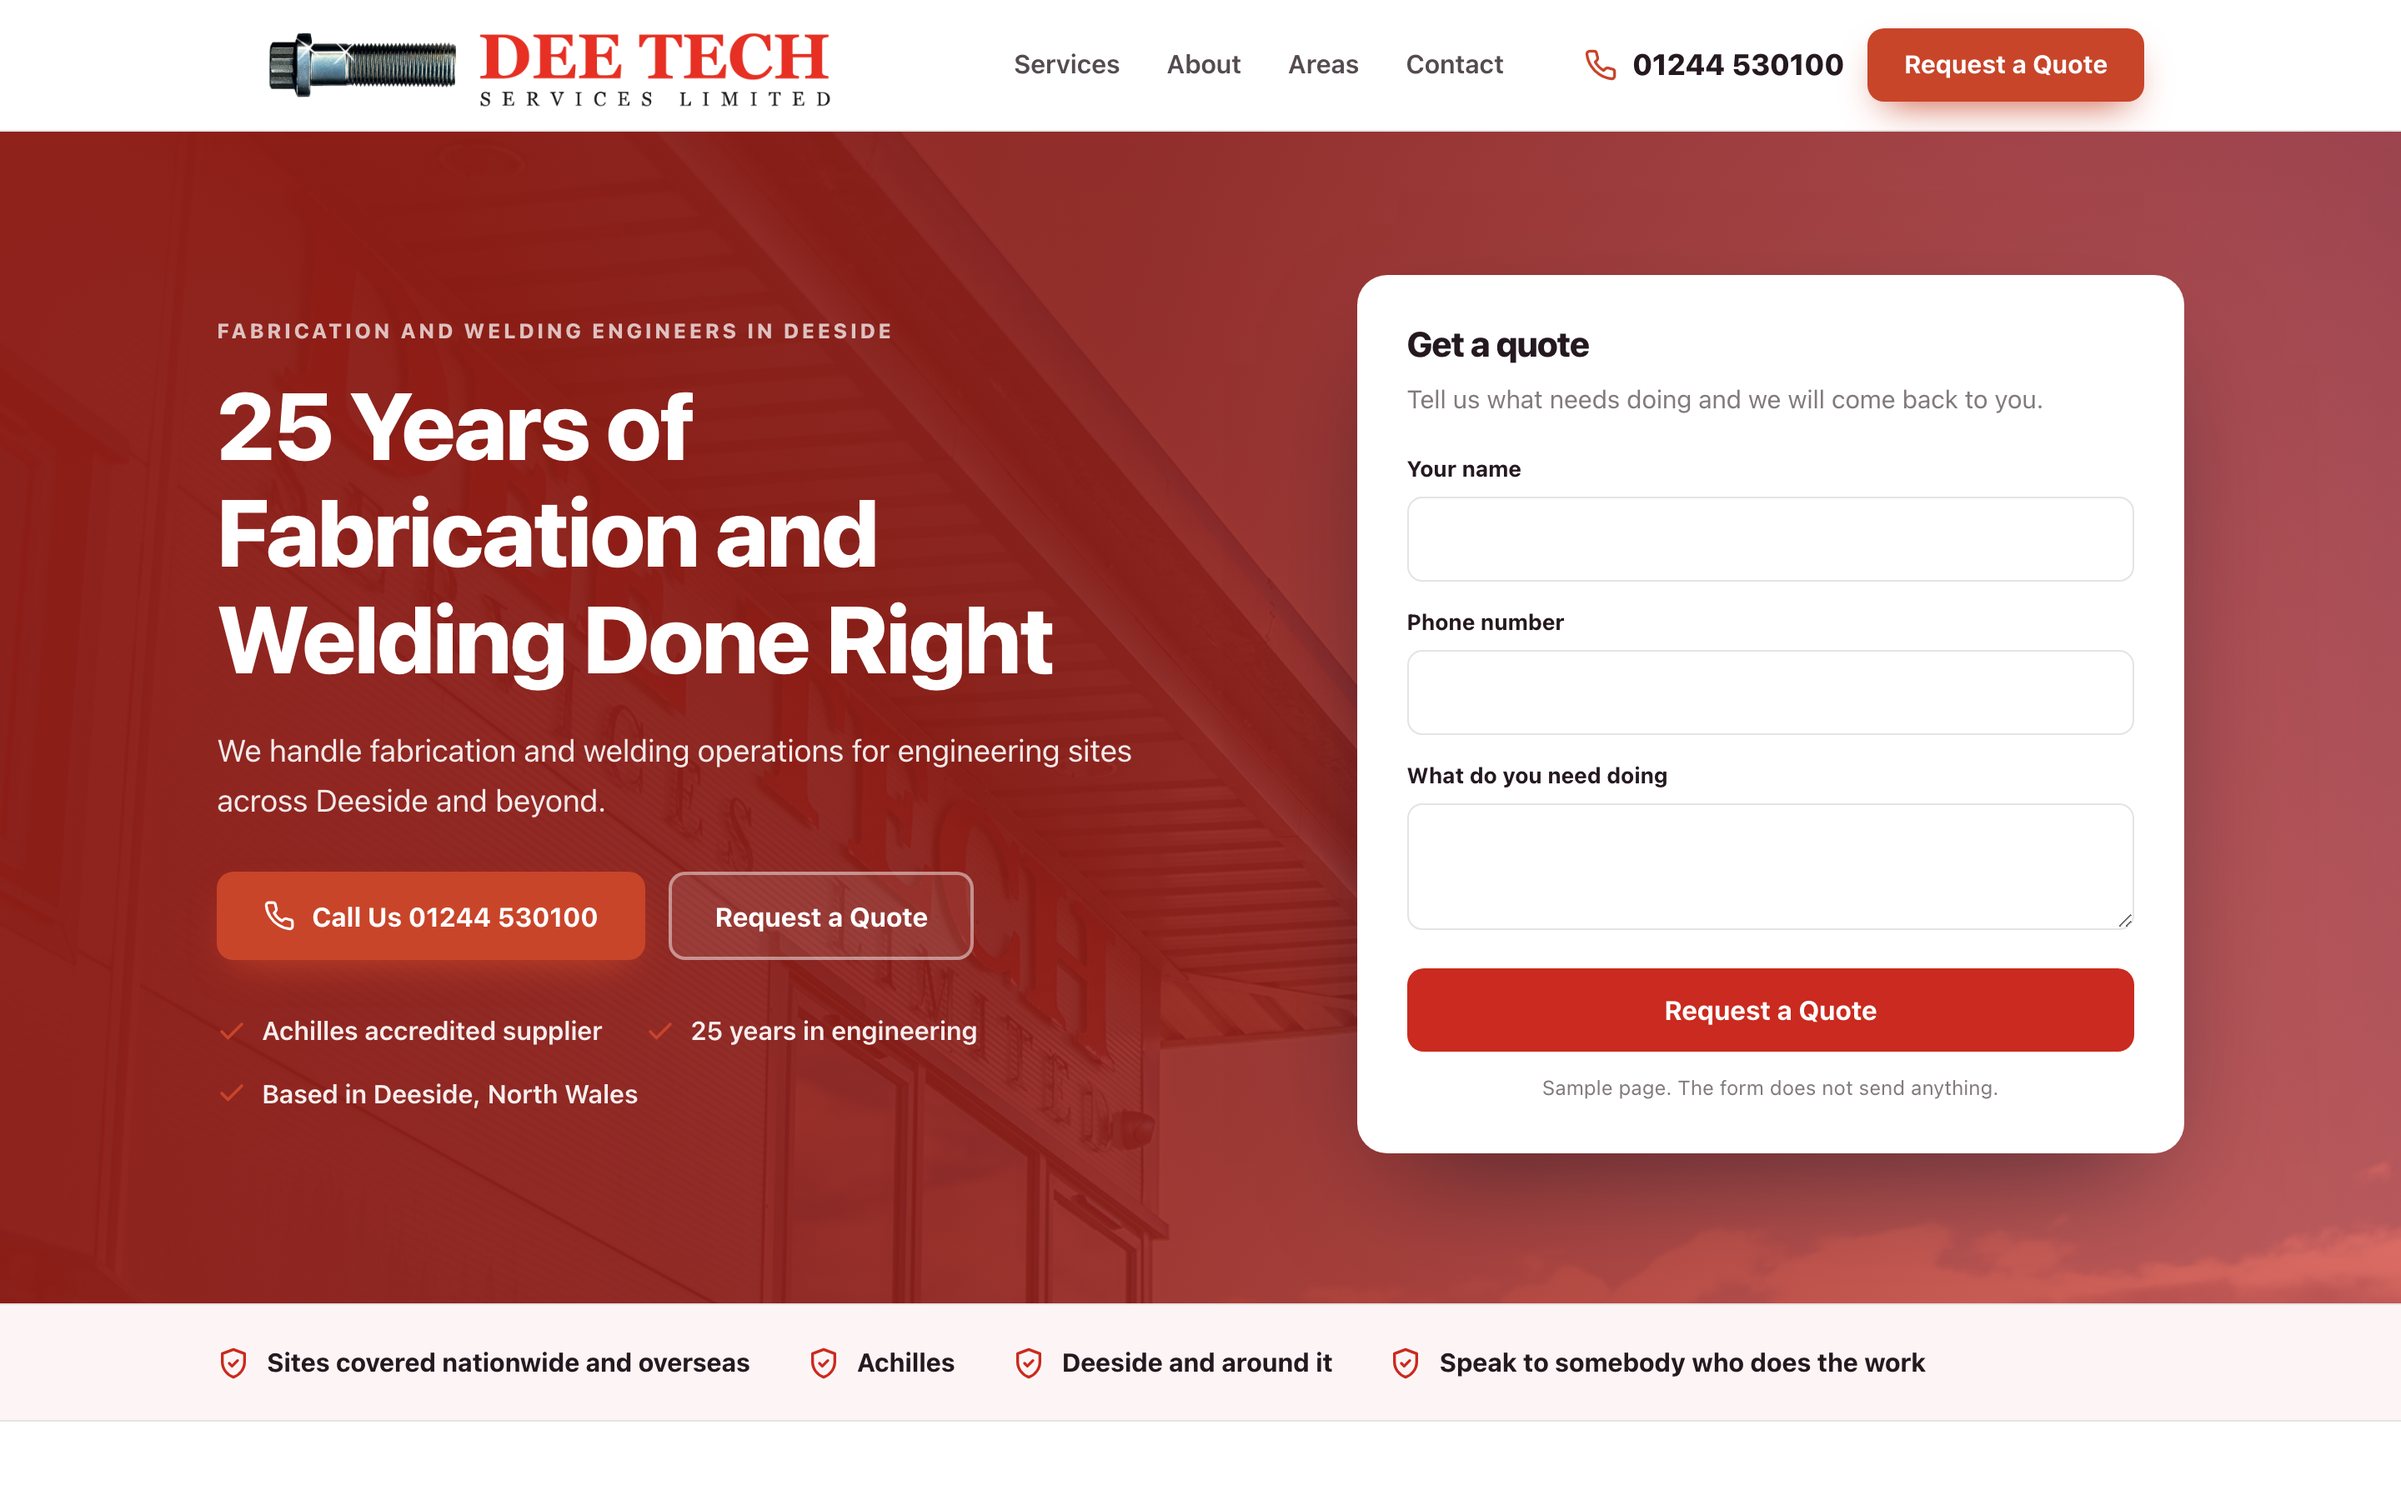
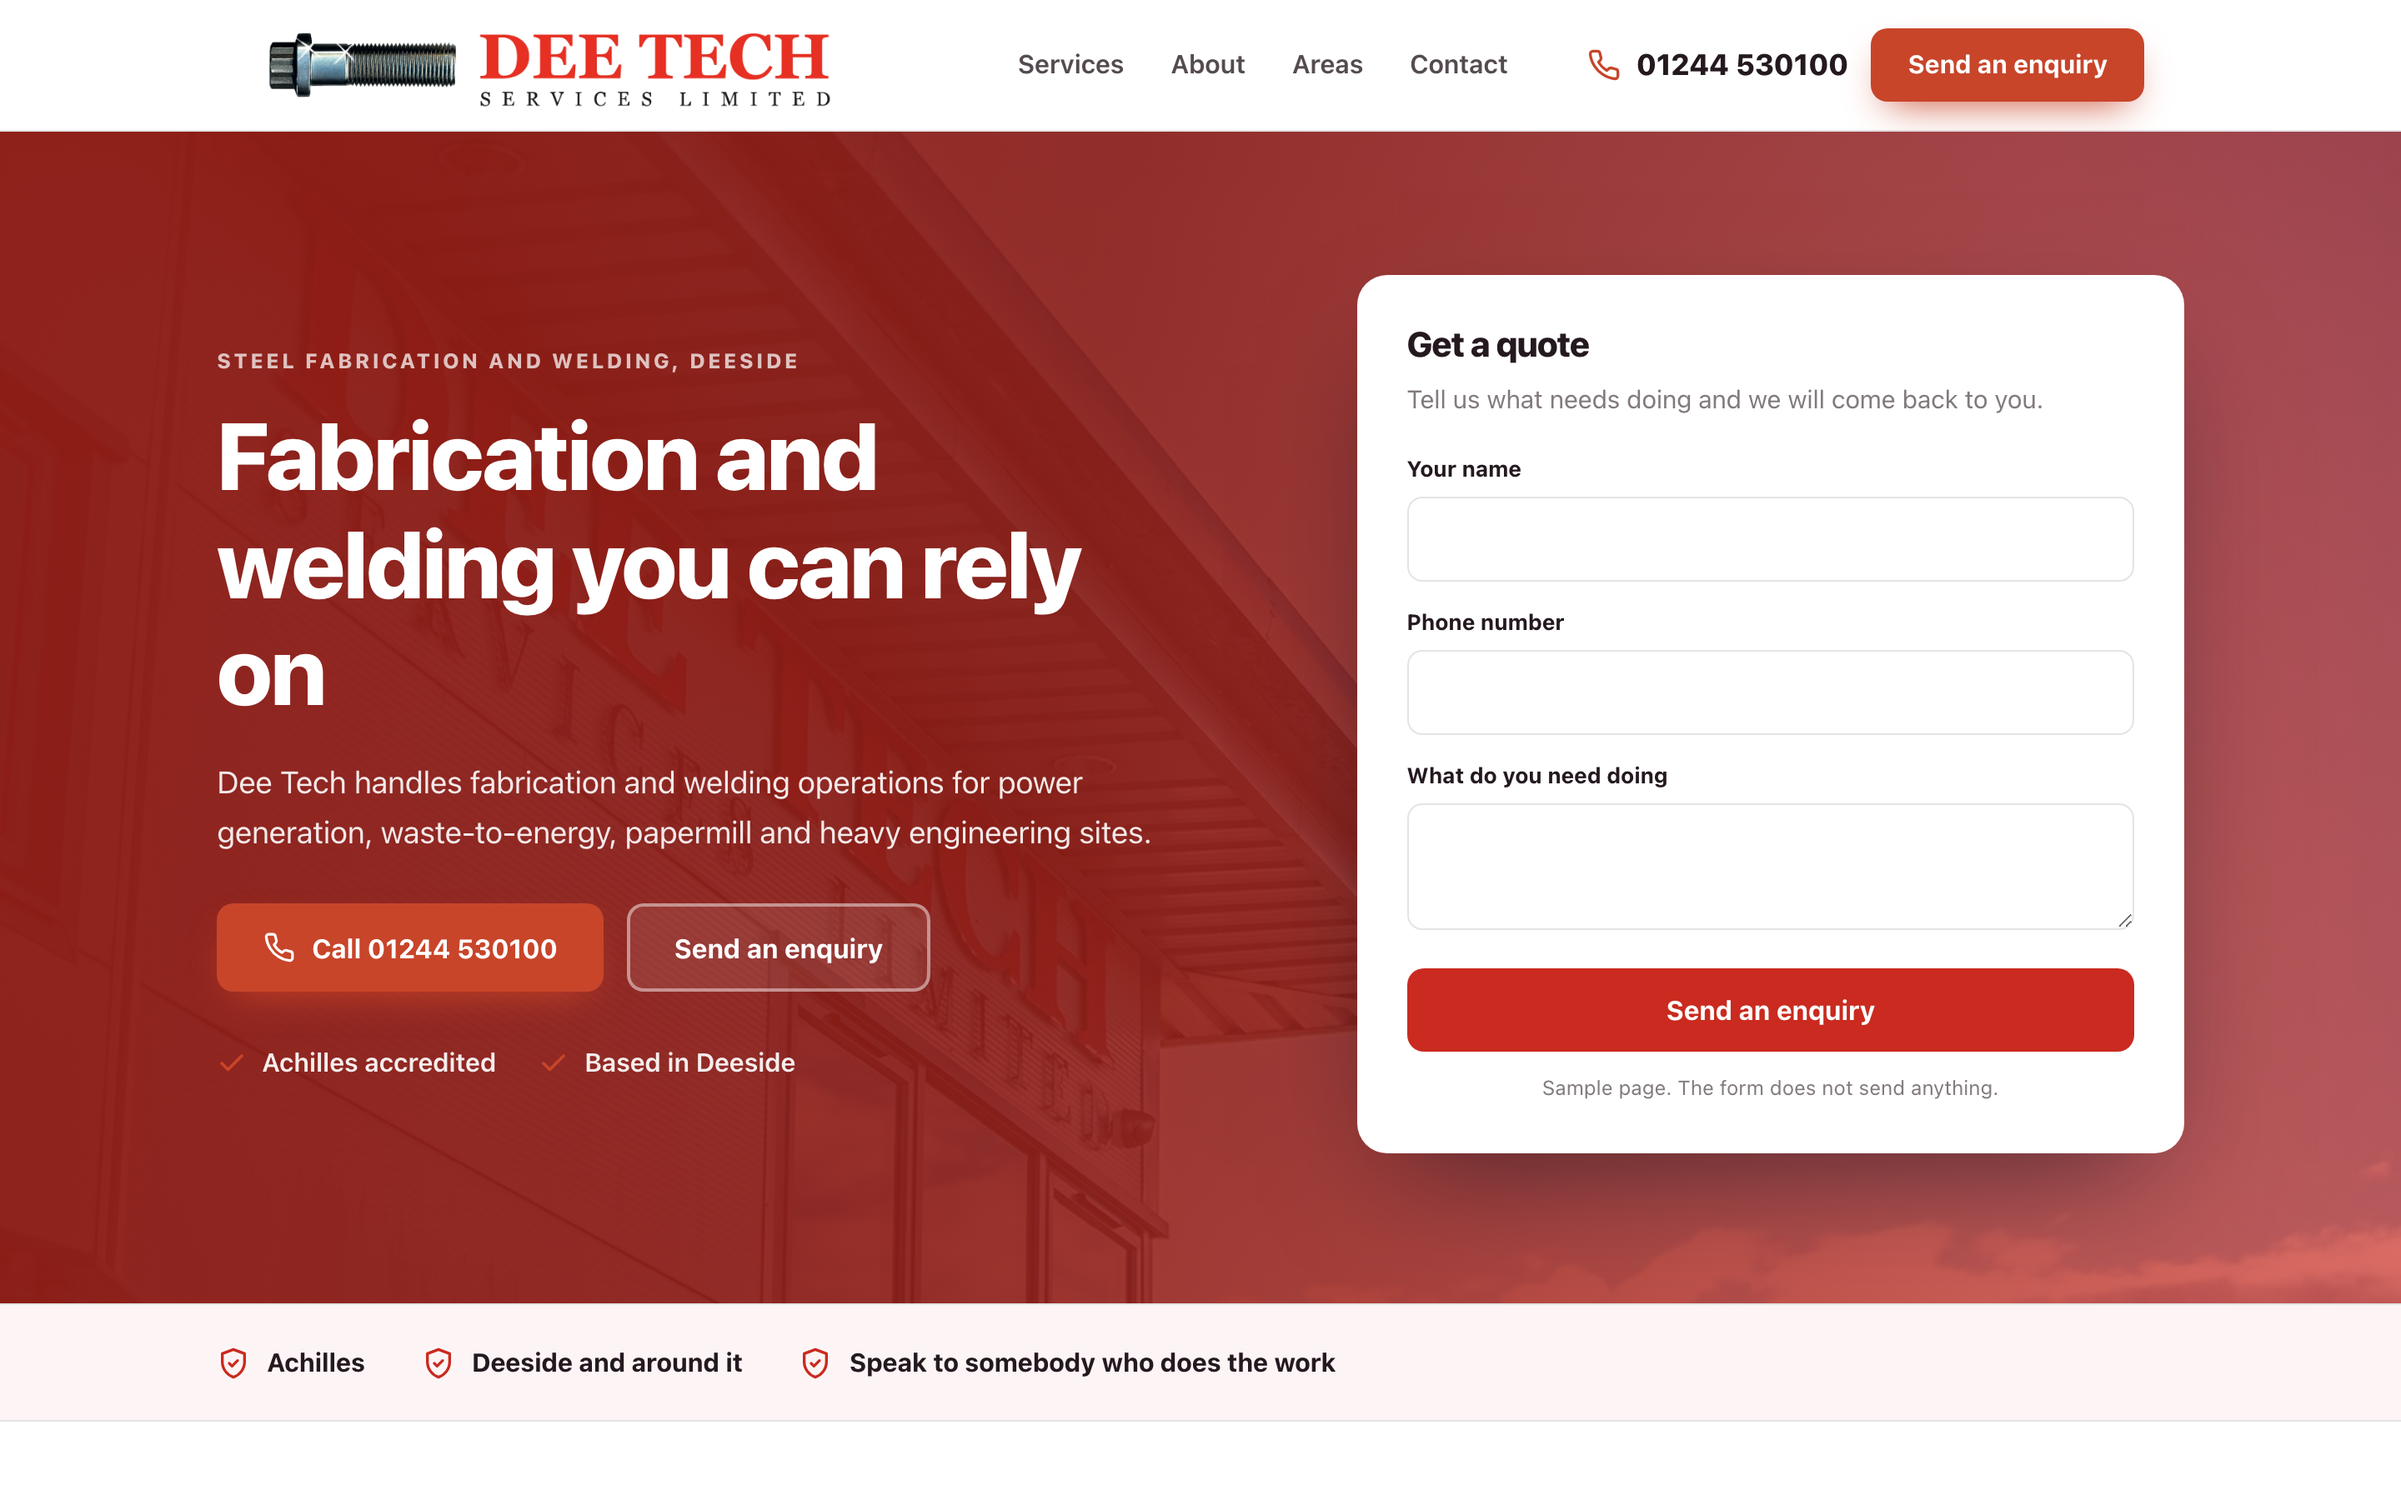
Sample homepage for Dee Tech

diff --git a/docs/d20d66e0ba/index.html b/docs/d20d66e0ba/index.html
@@ -4,14 +4,15 @@
 <meta charset="utf-8">
 <meta name="viewport" content="width=device-width, initial-scale=1">
 <meta name="robots" content="noindex,nofollow">
+<meta name="aso-build" content="">
 <title>Dee Tech sample homepage</title>
-<meta name="description" content="We handle fabrication and welding operations for engineering sites across Deeside and beyond.">
+<meta name="description" content="Dee Tech handles fabrication and welding operations for power generation, waste-to-energy, papermill and heavy engineering sites.">
 <link rel="canonical" href="https://markygff.github.io/aso-mockups/d20d66e0ba/">
 <meta property="og:type" content="website">
 <meta property="og:title" content="Dee Tech sample homepage">
-<meta property="og:description" content="We handle fabrication and welding operations for engineering sites across Deeside and beyond.">
+<meta property="og:description" content="Dee Tech handles fabrication and welding operations for power generation, waste-to-energy, papermill and heavy engineering sites.">
 <meta property="og:url" content="https://markygff.github.io/aso-mockups/d20d66e0ba/">
-<meta property="og:image" content="https://www.deetech.co.uk/images/C1__4222.webp"><style>
+<meta property="og:image" content="img/p01.jpg"><style>
 :root{
   --primary:#ca2a1f;
   --primary-dark:#911e16;
@@ -52,7 +53,8 @@ p{margin:0}
 .nav{display:flex;gap:28px;margin-left:auto;font-weight:600;font-size:.97rem;color:var(--ink)}
 .nav span{opacity:.78}
 .header-cta{display:flex;align-items:center;gap:14px;margin-left:28px}
-.tel{display:flex;align-items:center;gap:9px;font-weight:800;font-size:1.1rem;color:var(--ink)}
+.tel{display:flex;align-items:center;gap:9px;font-weight:800;font-size:1.1rem;
+     color:var(--ink);text-decoration:none}
 .tel svg{width:20px;height:20px;color:var(--accent)}
 .header-cta .btn{padding:12px 20px;font-size:.95rem}
 
@@ -119,30 +121,30 @@ p{margin:0}
 <header class="header">
   <div class="wrap header-in">
     <div class="brand">
-<img src="https://www.deetech.co.uk/images/deetech_logo.webp" alt="Dee Tech logo">    </div>
+<img src="img/logo.png" alt="Dee Tech logo">    </div>
     <nav class="nav">
       <span>Services</span><span>About</span><span>Areas</span><span>Contact</span>
     </nav>
     <div class="header-cta">
-      <span class="tel"><svg viewBox="0 0 24 24" fill="none" stroke="currentColor" stroke-width="2" stroke-linecap="round" stroke-linejoin="round" aria-hidden="true"><path d="M22 16.9v3a2 2 0 0 1-2.2 2 19.8 19.8 0 0 1-8.6-3.1 19.5 19.5 0 0 1-6-6 19.8 19.8 0 0 1-3.1-8.7A2 2 0 0 1 4.1 2h3a2 2 0 0 1 2 1.7c.1 1 .4 1.9.7 2.8a2 2 0 0 1-.5 2.1L8.1 9.9a16 16 0 0 0 6 6l1.3-1.2a2 2 0 0 1 2.1-.5c.9.3 1.8.6 2.8.7a2 2 0 0 1 1.7 2z"/></svg><span>01244 530100</span></span>
-      <span class="btn btn-accent">Request a Quote</span>
+      <a class="tel" href="tel:+441244530100"><svg viewBox="0 0 24 24" fill="none" stroke="currentColor" stroke-width="2" stroke-linecap="round" stroke-linejoin="round" aria-hidden="true"><path d="M22 16.9v3a2 2 0 0 1-2.2 2 19.8 19.8 0 0 1-8.6-3.1 19.5 19.5 0 0 1-6-6 19.8 19.8 0 0 1-3.1-8.7A2 2 0 0 1 4.1 2h3a2 2 0 0 1 2 1.7c.1 1 .4 1.9.7 2.8a2 2 0 0 1-.5 2.1L8.1 9.9a16 16 0 0 0 6 6l1.3-1.2a2 2 0 0 1 2.1-.5c.9.3 1.8.6 2.8.7a2 2 0 0 1 1.7 2z"/></svg><span>01244 530100</span></a>
+      <span class="btn btn-accent">Send an enquiry</span>
     </div>
   </div>
 </header>
 
 <section class="hero">
-  <div class="hero-bg"><img src="https://www.deetech.co.uk/images/C1__4222.webp" alt="Dee Tech at work" width="1600" height="900"></div>
+  <div class="hero-bg"><img src="img/p01.jpg" alt="Dee Tech at work" width="1600" height="900"></div>
   <div class="wrap hero-in">
     <div>
-      <p class="eyebrow">Fabrication and welding engineers in Deeside</p>
-      <h1>25 Years of Fabrication and Welding Done Right</h1>
-      <p class="hero-sub">We handle fabrication and welding operations for engineering sites across Deeside and beyond.</p>
+      <p class="eyebrow">Steel fabrication and welding, Deeside</p>
+      <h1>Fabrication and welding you can rely on</h1>
+      <p class="hero-sub">Dee Tech handles fabrication and welding operations for power generation, waste-to-energy, papermill and heavy engineering sites.</p>
       <div class="hero-actions">
-        <span class="btn btn-accent"><svg viewBox="0 0 24 24" fill="none" stroke="currentColor" stroke-width="2" stroke-linecap="round" stroke-linejoin="round" aria-hidden="true"><path d="M22 16.9v3a2 2 0 0 1-2.2 2 19.8 19.8 0 0 1-8.6-3.1 19.5 19.5 0 0 1-6-6 19.8 19.8 0 0 1-3.1-8.7A2 2 0 0 1 4.1 2h3a2 2 0 0 1 2 1.7c.1 1 .4 1.9.7 2.8a2 2 0 0 1-.5 2.1L8.1 9.9a16 16 0 0 0 6 6l1.3-1.2a2 2 0 0 1 2.1-.5c.9.3 1.8.6 2.8.7a2 2 0 0 1 1.7 2z"/></svg>Call Us 01244 530100</span>
-        <span class="btn btn-ghost">Request a Quote</span>
+        <span class="btn btn-accent"><svg viewBox="0 0 24 24" fill="none" stroke="currentColor" stroke-width="2" stroke-linecap="round" stroke-linejoin="round" aria-hidden="true"><path d="M22 16.9v3a2 2 0 0 1-2.2 2 19.8 19.8 0 0 1-8.6-3.1 19.5 19.5 0 0 1-6-6 19.8 19.8 0 0 1-3.1-8.7A2 2 0 0 1 4.1 2h3a2 2 0 0 1 2 1.7c.1 1 .4 1.9.7 2.8a2 2 0 0 1-.5 2.1L8.1 9.9a16 16 0 0 0 6 6l1.3-1.2a2 2 0 0 1 2.1-.5c.9.3 1.8.6 2.8.7a2 2 0 0 1 1.7 2z"/></svg>Call 01244 530100</span>
+        <span class="btn btn-ghost">Send an enquiry</span>
       </div>
       <ul class="hero-bullets">
-<li><svg viewBox="0 0 24 24" fill="none" stroke="currentColor" stroke-width="2.4" stroke-linecap="round" stroke-linejoin="round" aria-hidden="true"><path d="M20 6 9 17l-5-5"/></svg><span>Achilles accredited supplier</span></li><li><svg viewBox="0 0 24 24" fill="none" stroke="currentColor" stroke-width="2.4" stroke-linecap="round" stroke-linejoin="round" aria-hidden="true"><path d="M20 6 9 17l-5-5"/></svg><span>25 years in engineering</span></li><li><svg viewBox="0 0 24 24" fill="none" stroke="currentColor" stroke-width="2.4" stroke-linecap="round" stroke-linejoin="round" aria-hidden="true"><path d="M20 6 9 17l-5-5"/></svg><span>Based in Deeside, North Wales</span></li>      </ul>
+<li><svg viewBox="0 0 24 24" fill="none" stroke="currentColor" stroke-width="2.4" stroke-linecap="round" stroke-linejoin="round" aria-hidden="true"><path d="M20 6 9 17l-5-5"/></svg><span>Achilles accredited</span></li><li><svg viewBox="0 0 24 24" fill="none" stroke="currentColor" stroke-width="2.4" stroke-linecap="round" stroke-linejoin="round" aria-hidden="true"><path d="M20 6 9 17l-5-5"/></svg><span>Based in Deeside</span></li>      </ul>
     </div>
     <div class="quote-card">
       <h3>Get a quote</h3>
@@ -150,7 +152,7 @@ p{margin:0}
       <div class="field"><label>Your name</label><input type="text" disabled></div>
       <div class="field"><label>Phone number</label><input type="tel" disabled></div>
       <div class="field"><label>What do you need doing</label><textarea disabled></textarea></div>
-      <span class="btn btn-primary">Request a Quote</span>
+      <span class="btn btn-primary">Send an enquiry</span>
       <p class="sample-note">Sample page. The form does not send anything.</p>
     </div>
   </div>
@@ -158,7 +160,6 @@ p{margin:0}
 
 <div class="strip">
   <div class="wrap strip-in">
-    <div class="strip-item"><svg viewBox="0 0 24 24" fill="none" stroke="currentColor" stroke-width="2" stroke-linecap="round" stroke-linejoin="round" aria-hidden="true"><path d="M12 2 4 5v6c0 5 3.4 9.4 8 11 4.6-1.6 8-6 8-11V5z"/><path d="m9 12 2 2 4-4"/></svg><span>Sites covered nationwide and overseas</span></div>
     <div class="strip-item"><svg viewBox="0 0 24 24" fill="none" stroke="currentColor" stroke-width="2" stroke-linecap="round" stroke-linejoin="round" aria-hidden="true"><path d="M12 2 4 5v6c0 5 3.4 9.4 8 11 4.6-1.6 8-6 8-11V5z"/><path d="m9 12 2 2 4-4"/></svg><span>Achilles</span></div>
     <div class="strip-item"><svg viewBox="0 0 24 24" fill="none" stroke="currentColor" stroke-width="2" stroke-linecap="round" stroke-linejoin="round" aria-hidden="true"><path d="M12 2 4 5v6c0 5 3.4 9.4 8 11 4.6-1.6 8-6 8-11V5z"/><path d="m9 12 2 2 4-4"/></svg><span>Deeside and around it</span></div>
     <div class="strip-item"><svg viewBox="0 0 24 24" fill="none" stroke="currentColor" stroke-width="2" stroke-linecap="round" stroke-linejoin="round" aria-hidden="true"><path d="M12 2 4 5v6c0 5 3.4 9.4 8 11 4.6-1.6 8-6 8-11V5z"/><path d="m9 12 2 2 4-4"/></svg><span>Speak to somebody who does the work</span></div>
@@ -170,7 +171,7 @@ p{margin:0}
     <div class="services-head">
       <p class="eyebrow">What we do</p>
       <h2>Dee Tech, Deeside</h2>
-      <p>We handle fabrication and welding operations for engineering sites across Deeside and beyond.</p>
+      <p>Dee Tech handles fabrication and welding operations for power generation, waste-to-energy, papermill and heavy engineering sites.</p>
     </div>
     <div class="grid">
       <article class="card">
@@ -181,12 +182,12 @@ p{margin:0}
       <article class="card">
         <div class="icon"><svg viewBox="0 0 24 24" fill="none" stroke="currentColor" stroke-width="2" stroke-linecap="round" stroke-linejoin="round" aria-hidden="true"><path d="M13 2 4 14h7l-1 8 9-12h-7z"/></svg></div>
         <h3>Welding Operations</h3>
-        <p>Welding to BSEN and ASME standards for carbon steel, stainless, alloy and more.</p>
+        <p>Welding to BSEN and ASME standards, tested and controlled for pressure equipment work.</p>
       </article>
       <article class="card">
         <div class="icon"><svg viewBox="0 0 24 24" fill="none" stroke="currentColor" stroke-width="2" stroke-linecap="round" stroke-linejoin="round" aria-hidden="true"><path d="M3 10.5 12 3l9 7.5"/><path d="M5 9.5V21h14V9.5"/><path d="M10 21v-6h4v6"/></svg></div>
         <h3>Enquiry</h3>
-        <p>Get in touch and we&#39;ll talk through what your project needs.</p>
+        <p>Get in touch with our team to talk through your project.</p>
       </article>
     </div>
   </div>
